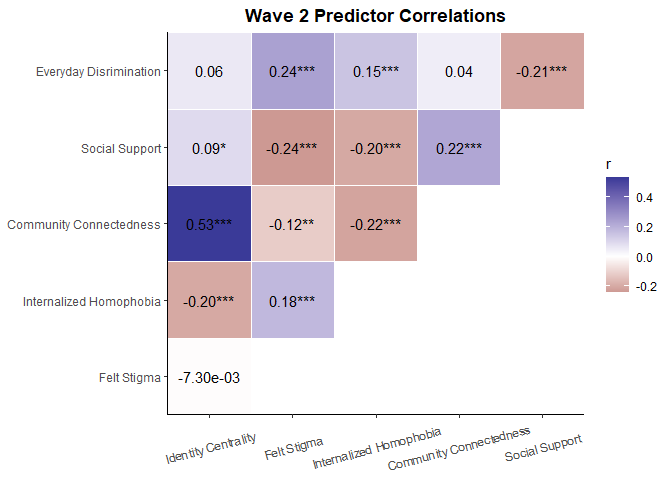
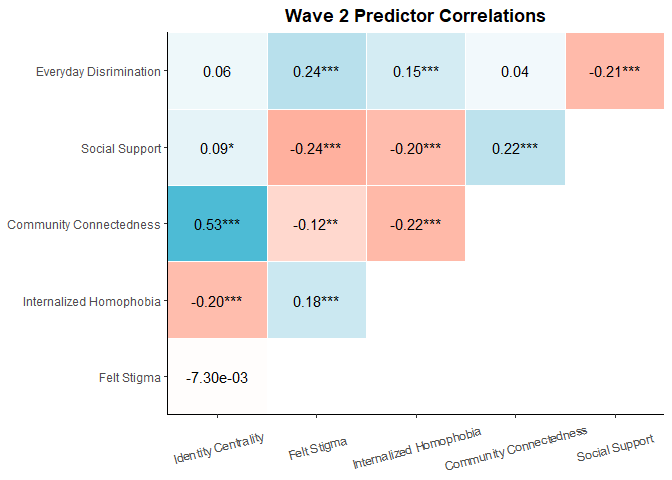
changes

diff --git a/p10/p10.md b/p10/p10.md
@@ -204,17 +204,27 @@ summary(W3)
 
 ``` r
 plot(summary(correlation(data = da37166.0007[c("W1EVERYDAY", "W1SOCSUPPORT", "W1CONNECTEDNESS", "W1INTERNALIZED", "W1FELTSTIGMA", "W1IDCENTRAL")], rename = c("Everyday Disrimination", "Social Support", "Community Connectedness", "Internalized Homophobia", "Felt Stigma", "Identity Centrality")
-))) + theme_classic() + theme(axis.text.x=element_text(vjust = 0.5, angle = 15), plot.title = element_text(face = "bold", hjust = 0.5)) + labs(title = "Wave 1 Predictor Correlations") + scale_fill_gradient2() 
+))) + theme_classic() + theme(axis.text.x=element_text(vjust = 0.5, angle = 15), plot.title = element_text(face = "bold", hjust = 0.5)) + labs(title = "Wave 1 Predictor Correlations") + scale_fill_gradient2(low = "#E64B35FF",
+  mid = "white",
+  high = "#4DBBD5FF") + guides(fill = FALSE)
 ```
 
     ## Scale for fill is already present.
     ## Adding another scale for fill, which will replace the existing scale.
 
+    ## Warning: The `<scale>` argument of `guides()` cannot be `FALSE`. Use "none" instead as
+    ## of ggplot2 3.3.4.
+    ## This warning is displayed once every 8 hours.
+    ## Call `lifecycle::last_lifecycle_warnings()` to see where this warning was
+    ## generated.
+
 ![](p10_files/figure-gfm/unnamed-chunk-1-1.png)<!-- -->
 
 ``` r
 plot(summary(correlation(data = da37166.0007[c("W2EVERYDAY", "W2SOCSUPPORT", "W2CONNECTEDNESS", "W2INTERNALIZED", "W2FELTSTIGMA", "W2IDCENTRAL")], rename = c("Everyday Disrimination", "Social Support", "Community Connectedness", "Internalized Homophobia", "Felt Stigma", "Identity Centrality")
-))) + theme_classic() + theme(axis.text.x=element_text(vjust = 0.5, angle = 15), plot.title = element_text(face = "bold", hjust = 0.5)) + labs(title = "Wave 2 Predictor Correlations") + scale_fill_gradient2() 
+))) + theme_classic() + theme(axis.text.x=element_text(vjust = 0.5, angle = 15), plot.title = element_text(face = "bold", hjust = 0.5)) + labs(title = "Wave 2 Predictor Correlations") + scale_fill_gradient2(low = "#E64B35FF",
+  mid = "white",
+  high = "#4DBBD5FF") + guides(fill = FALSE)
 ```
 
     ## Scale for fill is already present.
@@ -224,7 +234,9 @@ plot(summary(correlation(data = da37166.0007[c("W2EVERYDAY", "W2SOCSUPPORT", "W2
 
 ``` r
 plot(summary(correlation(data = da37166.0007[c("W3EVERYDAY", "W3SOCSUPPORT", "W3CONNECTEDNESS", "W3INTERNALIZED", "W3FELTSTIGMA", "W3IDCENTRAL")], rename = c("Everyday Disrimination", "Social Support", "Community Connectedness", "Internalized Homophobia", "Felt Stigma", "Identity Centrality")
-))) + theme_classic() + theme(axis.text.x=element_text(vjust = 0.5, angle = 15), plot.title = element_text(face = "bold", hjust = 0.5)) + labs(title = "Wave 3 Predictor Correlations") + scale_fill_gradient2() 
+))) + theme_classic() + theme(axis.text.x=element_text(vjust = 0.5, angle = 15), plot.title = element_text(face = "bold", hjust = 0.5)) + labs(title = "Wave 3 Predictor Correlations") + scale_fill_gradient2(low = "#E64B35FF",
+  mid = "white",
+  high = "#4DBBD5FF") + guides(fill = FALSE)
 ```
 
     ## Scale for fill is already present.
@@ -380,7 +392,7 @@ summary(logR_wave3)
 ``` r
 #Not sure if using wave 3 data to predict wave 3 outcome is legit
 
-plot_model(logR_wave1, show.values = TRUE, value.offset = .3, vline.color = "black", title = "Using Wave 1 Predictors to Predict Coming Out in Wave 2", type ="est", colors="black", transform = NULL) + theme_classic() + theme(plot.title = element_text(face = "bold", hjust = 0.5)) + scale_x_discrete(labels=c("Felt Stigma", "Internalized Homophobia", "Community Connectedness","Social Support", "Everyday Discrimination"))
+plot_model(logR_wave1, group.terms = c(1, 2, 2, 1, 2), colors=c("#4DBBD5FF","#E64B35FF"), show.values = TRUE, value.offset = .3, vline.color = "#1B191999", title = "Using Wave 1 Predictors to Predict Coming Out in Wave 2", type ="est", transform = NULL) + theme_classic() + theme(plot.title = element_text(face = "bold", hjust = 0.5)) + scale_x_discrete(labels=c("Felt Stigma", "Internalized Homophobia", "Community Connectedness","Social Support", "Everyday Discrimination"))
 ```
 
     ## Scale for x is already present.
@@ -389,7 +401,7 @@ plot_model(logR_wave1, show.values = TRUE, value.offset = .3, vline.color = "bla
 ![](p10_files/figure-gfm/unnamed-chunk-2-1.png)<!-- -->
 
 ``` r
-plot_model(logR_wave2, show.values = TRUE, value.offset = .3, vline.color = "black", title = "Using Wave 2 Predictors to Predict Coming Out in Wave 3", type ="est", colors="black", transform = NULL) + theme_classic() + theme(plot.title = element_text(face = "bold", hjust = 0.5)) + scale_x_discrete(labels=c("Felt Stigma", "Internalized Homophobia", "Community Connectedness","Social Support", "Everyday Discrimination"))
+plot_model(logR_wave2, group.terms = c(1, 2, 2, 1, 2), colors=c("#4DBBD5FF","#E64B35FF"), show.values = TRUE, value.offset = .3, vline.color = "#1B191999", title = "Using Wave 2 Predictors to Predict Coming Out in Wave 3", type ="est", transform = NULL) + theme_classic() + theme(plot.title = element_text(face = "bold", hjust = 0.5)) + scale_x_discrete(labels=c("Felt Stigma", "Internalized Homophobia", "Community Connectedness","Social Support", "Everyday Discrimination"))
 ```
 
     ## Scale for x is already present.
@@ -398,7 +410,7 @@ plot_model(logR_wave2, show.values = TRUE, value.offset = .3, vline.color = "bla
 ![](p10_files/figure-gfm/unnamed-chunk-2-2.png)<!-- -->
 
 ``` r
-plot_model(logR_wave3, show.values = TRUE, value.offset = .3, vline.color = "black", title = "Using Wave 3 Predictors to Predict Coming Out in Wave 3", type ="est", colors="black", transform = NULL) + theme_classic() + theme(plot.title = element_text(face = "bold", hjust = 0.5)) + scale_x_discrete(labels=c("Felt Stigma", "Internalized Homophobia", "Community Connectedness","Social Support", "Everyday Discrimination"))
+plot_model(logR_wave3, group.terms = c(1, 2, 2, 1, 2), colors=c("#4DBBD5FF","#E64B35FF"), show.values = TRUE, value.offset = .3, vline.color = "#1B191999", title = "Using Wave 3 Predictors to Predict Coming Out in Wave 3", type ="est", transform = NULL) + theme_classic() + theme(plot.title = element_text(face = "bold", hjust = 0.5)) + scale_x_discrete(labels=c("Felt Stigma", "Internalized Homophobia", "Community Connectedness","Social Support", "Everyday Discrimination"))
 ```
 
     ## Scale for x is already present.
@@ -413,7 +425,103 @@ discrimination means more daily discrimination, less likely to come out
 or less discrimination, more likely to come out.
 
 ``` r
-path <-'W3Q29D ~ W2EVERYDAY  + W2SOCSUPPORT  + W2CONNECTEDNESS  + W2INTERNALIZED  + W2FELTSTIGMA
+path1 <-'W2Q29D ~ W1EVERYDAY  + W1SOCSUPPORT  + W1CONNECTEDNESS  + W1INTERNALIZED  + W1FELTSTIGMA
+
+W1INTERNALIZED ~ W1FELTSTIGMA + W1EVERYDAY
+
+W1SOCSUPPORT ~ W1CONNECTEDNESS
+
+'
+
+da37166.0007$W2Q29D<-as.numeric(da37166.0007$W2Q29D=="(1) Yes")
+
+
+fit1<-sem(path1, data = da37166.0007)
+
+summary(fit1, fit.measures=TRUE, standardized=T)
+```
+
+    ## lavaan 0.6.15 ended normally after 1 iteration
+    ## 
+    ##   Estimator                                         ML
+    ##   Optimization method                           NLMINB
+    ##   Number of model parameters                        11
+    ## 
+    ##                                                   Used       Total
+    ##   Number of observations                           804        1518
+    ## 
+    ## Model Test User Model:
+    ##                                                       
+    ##   Test statistic                                66.478
+    ##   Degrees of freedom                                 4
+    ##   P-value (Chi-square)                           0.000
+    ## 
+    ## Model Test Baseline Model:
+    ## 
+    ##   Test statistic                               139.610
+    ##   Degrees of freedom                                12
+    ##   P-value                                        0.000
+    ## 
+    ## User Model versus Baseline Model:
+    ## 
+    ##   Comparative Fit Index (CFI)                    0.510
+    ##   Tucker-Lewis Index (TLI)                      -0.469
+    ## 
+    ## Loglikelihood and Information Criteria:
+    ## 
+    ##   Loglikelihood user model (H0)              -2707.846
+    ##   Loglikelihood unrestricted model (H1)      -2674.607
+    ##                                                       
+    ##   Akaike (AIC)                                5437.693
+    ##   Bayesian (BIC)                              5489.278
+    ##   Sample-size adjusted Bayesian (SABIC)       5454.347
+    ## 
+    ## Root Mean Square Error of Approximation:
+    ## 
+    ##   RMSEA                                          0.139
+    ##   90 Percent confidence interval - lower         0.111
+    ##   90 Percent confidence interval - upper         0.170
+    ##   P-value H_0: RMSEA <= 0.050                    0.000
+    ##   P-value H_0: RMSEA >= 0.080                    1.000
+    ## 
+    ## Standardized Root Mean Square Residual:
+    ## 
+    ##   SRMR                                           0.072
+    ## 
+    ## Parameter Estimates:
+    ## 
+    ##   Standard errors                             Standard
+    ##   Information                                 Expected
+    ##   Information saturated (h1) model          Structured
+    ## 
+    ## Regressions:
+    ##                    Estimate  Std.Err  z-value  P(>|z|)   Std.lv  Std.all
+    ##   W2Q29D ~                                                              
+    ##     W1EVERYDAY        0.066    0.026    2.486    0.013    0.066    0.091
+    ##     W1SOCSUPPORT      0.016    0.013    1.233    0.218    0.016    0.043
+    ##     W1CONNECTEDNES    0.029    0.030    0.969    0.333    0.029    0.034
+    ##     W1INTERNALIZED    0.030    0.023    1.300    0.193    0.030    0.046
+    ##     W1FELTSTIGMA      0.034    0.018    1.885    0.059    0.034    0.069
+    ##   W1INTERNALIZED ~                                                      
+    ##     W1FELTSTIGMA      0.121    0.027    4.496    0.000    0.121    0.161
+    ##     W1EVERYDAY        0.127    0.040    3.188    0.001    0.127    0.114
+    ##   W1SOCSUPPORT ~                                                        
+    ##     W1CONNECTEDNES    0.329    0.083    3.976    0.000    0.329    0.139
+    ## 
+    ## Variances:
+    ##                    Estimate  Std.Err  z-value  P(>|z|)   Std.lv  Std.all
+    ##    .W2Q29D            0.211    0.011   20.050    0.000    0.211    0.975
+    ##    .W1INTERNALIZED    0.491    0.024   20.050    0.000    0.491    0.951
+    ##    .W1SOCSUPPORT      1.635    0.082   20.050    0.000    1.635    0.981
+
+``` r
+semPaths(fit1, "std", layout = "tree", edge.width = 1.5, edge.label.cex = 1.5, node.width=2, residuals=FALSE, nodeLabels = c("Coming Out", "Internalized Homophobia", "Social Support", "Everyday Discrimination", "Community Connectedness", "Felt Stigma"), label.cex =3.6)
+```
+
+![](p10_files/figure-gfm/unnamed-chunk-3-1.png)<!-- -->
+
+``` r
+path2 <-'W3Q29D ~ W2EVERYDAY  + W2SOCSUPPORT  + W2CONNECTEDNESS  + W2INTERNALIZED  + W2FELTSTIGMA
 
 W2INTERNALIZED ~ W2FELTSTIGMA + W2EVERYDAY
 
@@ -430,9 +538,9 @@ describe(da37166.0007$W3Q29D)
     ## X1    1 692 0.27 0.44      0    0.21   0   0   1     1 1.05     -0.9 0.02
 
 ``` r
-fit<-sem(path, data = da37166.0007)
+fit2<-sem(path2, data = da37166.0007)
 
-summary(fit, fit.measures=TRUE, standardized=T)
+summary(fit2, fit.measures=TRUE, standardized=T)
 ```
 
     ## lavaan 0.6.15 ended normally after 1 iteration
@@ -509,11 +617,116 @@ summary(fit, fit.measures=TRUE, standardized=T)
     ##    .W2SOCSUPPORT      1.424    0.085   16.808    0.000    1.424    0.950
 
 ``` r
-semPaths(fit, "std", layout = "tree", edge.width = 1.5, vertex.label.cex=0.8, edge.label.cex = 1.5, node.width=2, edge.width=2, residuals=FALSE)
+semPaths(fit2, "std", layout = "tree", edge.width = 1.5, edge.label.cex = 1.5, node.width=2, residuals=FALSE, nodeLabels = c("Coming Out", "Internalized Homophobia", "Social Support", "Everyday Discrimination", "Community Connectedness", "Felt Stigma"), label.cex =3.6)
 ```
 
-    ## Warning in qgraph::qgraph(Edgelist, labels = nLab, bidirectional = Bidir, : The
-    ## following arguments are not documented and likely not arguments of qgraph and
-    ## thus ignored: vertex.label.cex
+![](p10_files/figure-gfm/unnamed-chunk-4-1.png)<!-- -->
 
-![](p10_files/figure-gfm/unnamed-chunk-3-1.png)<!-- -->
+This is my first time building a path model. Obviously the model fit is
+pretty bad… And the diagram created by the semplot does not look pretty
+:(, the numbers overlapped. I guess this just isn’t the best package to
+visualize path analysis results.
+
+``` r
+path3 <-'W3Q29D ~ W3EVERYDAY  + W3SOCSUPPORT  + W3CONNECTEDNESS  + W3INTERNALIZED  + W3FELTSTIGMA
+
+W3INTERNALIZED ~ W3FELTSTIGMA + W3EVERYDAY
+
+W3SOCSUPPORT ~ W3CONNECTEDNESS
+
+'
+
+
+describe(da37166.0007$W3Q29D)
+```
+
+    ##    vars   n mean   sd median trimmed mad min max range skew kurtosis   se
+    ## X1    1 692 0.27 0.44      0    0.21   0   0   1     1 1.05     -0.9 0.02
+
+``` r
+fit3<-sem(path3, data = da37166.0007)
+
+summary(fit3, fit.measures=TRUE, standardized=T)
+```
+
+    ## lavaan 0.6.15 ended normally after 1 iteration
+    ## 
+    ##   Estimator                                         ML
+    ##   Optimization method                           NLMINB
+    ##   Number of model parameters                        11
+    ## 
+    ##                                                   Used       Total
+    ##   Number of observations                           646        1518
+    ## 
+    ## Model Test User Model:
+    ##                                                       
+    ##   Test statistic                                80.150
+    ##   Degrees of freedom                                 4
+    ##   P-value (Chi-square)                           0.000
+    ## 
+    ## Model Test Baseline Model:
+    ## 
+    ##   Test statistic                               164.782
+    ##   Degrees of freedom                                12
+    ##   P-value                                        0.000
+    ## 
+    ## User Model versus Baseline Model:
+    ## 
+    ##   Comparative Fit Index (CFI)                    0.502
+    ##   Tucker-Lewis Index (TLI)                      -0.495
+    ## 
+    ## Loglikelihood and Information Criteria:
+    ## 
+    ##   Loglikelihood user model (H0)              -2074.035
+    ##   Loglikelihood unrestricted model (H1)      -2033.959
+    ##                                                       
+    ##   Akaike (AIC)                                4170.069
+    ##   Bayesian (BIC)                              4219.248
+    ##   Sample-size adjusted Bayesian (SABIC)       4184.324
+    ## 
+    ## Root Mean Square Error of Approximation:
+    ## 
+    ##   RMSEA                                          0.172
+    ##   90 Percent confidence interval - lower         0.140
+    ##   90 Percent confidence interval - upper         0.205
+    ##   P-value H_0: RMSEA <= 0.050                    0.000
+    ##   P-value H_0: RMSEA >= 0.080                    1.000
+    ## 
+    ## Standardized Root Mean Square Residual:
+    ## 
+    ##   SRMR                                           0.085
+    ## 
+    ## Parameter Estimates:
+    ## 
+    ##   Standard errors                             Standard
+    ##   Information                                 Expected
+    ##   Information saturated (h1) model          Structured
+    ## 
+    ## Regressions:
+    ##                    Estimate  Std.Err  z-value  P(>|z|)   Std.lv  Std.all
+    ##   W3Q29D ~                                                              
+    ##     W3EVERYDAY        0.081    0.028    2.915    0.004    0.081    0.117
+    ##     W3SOCSUPPORT      0.002    0.015    0.109    0.913    0.002    0.004
+    ##     W3CONNECTEDNES    0.042    0.031    1.356    0.175    0.042    0.054
+    ##     W3INTERNALIZED    0.053    0.025    2.095    0.036    0.053    0.084
+    ##     W3FELTSTIGMA      0.018    0.019    0.959    0.338    0.018    0.039
+    ##   W3INTERNALIZED ~                                                      
+    ##     W3FELTSTIGMA      0.142    0.028    5.014    0.000    0.142    0.197
+    ##     W3EVERYDAY        0.118    0.043    2.742    0.006    0.118    0.108
+    ##   W3SOCSUPPORT ~                                                        
+    ##     W3CONNECTEDNES    0.411    0.083    4.984    0.000    0.411    0.192
+    ## 
+    ## Variances:
+    ##                    Estimate  Std.Err  z-value  P(>|z|)   Std.lv  Std.all
+    ##    .W3Q29D            0.191    0.011   17.972    0.000    0.191    0.968
+    ##    .W3INTERNALIZED    0.463    0.026   17.972    0.000    0.463    0.939
+    ##    .W3SOCSUPPORT      1.396    0.078   17.972    0.000    1.396    0.963
+
+``` r
+semPaths(fit3, "std", layout = "tree", edge.width = 1.5, edge.label.cex = 1.5, node.width=2, residuals=FALSE, nodeLabels = c("Coming Out", "Internalized Homophobia", "Social Support", "Everyday Discrimination", "Community Connectedness", "Felt Stigma"), label.cex =3.6)
+```
+
+![](p10_files/figure-gfm/unnamed-chunk-5-1.png)<!-- -->
+
+I’m happy with the other plots I made, but the package that was used to
+make these semplots doesn’t really allow me to express my creativity.
